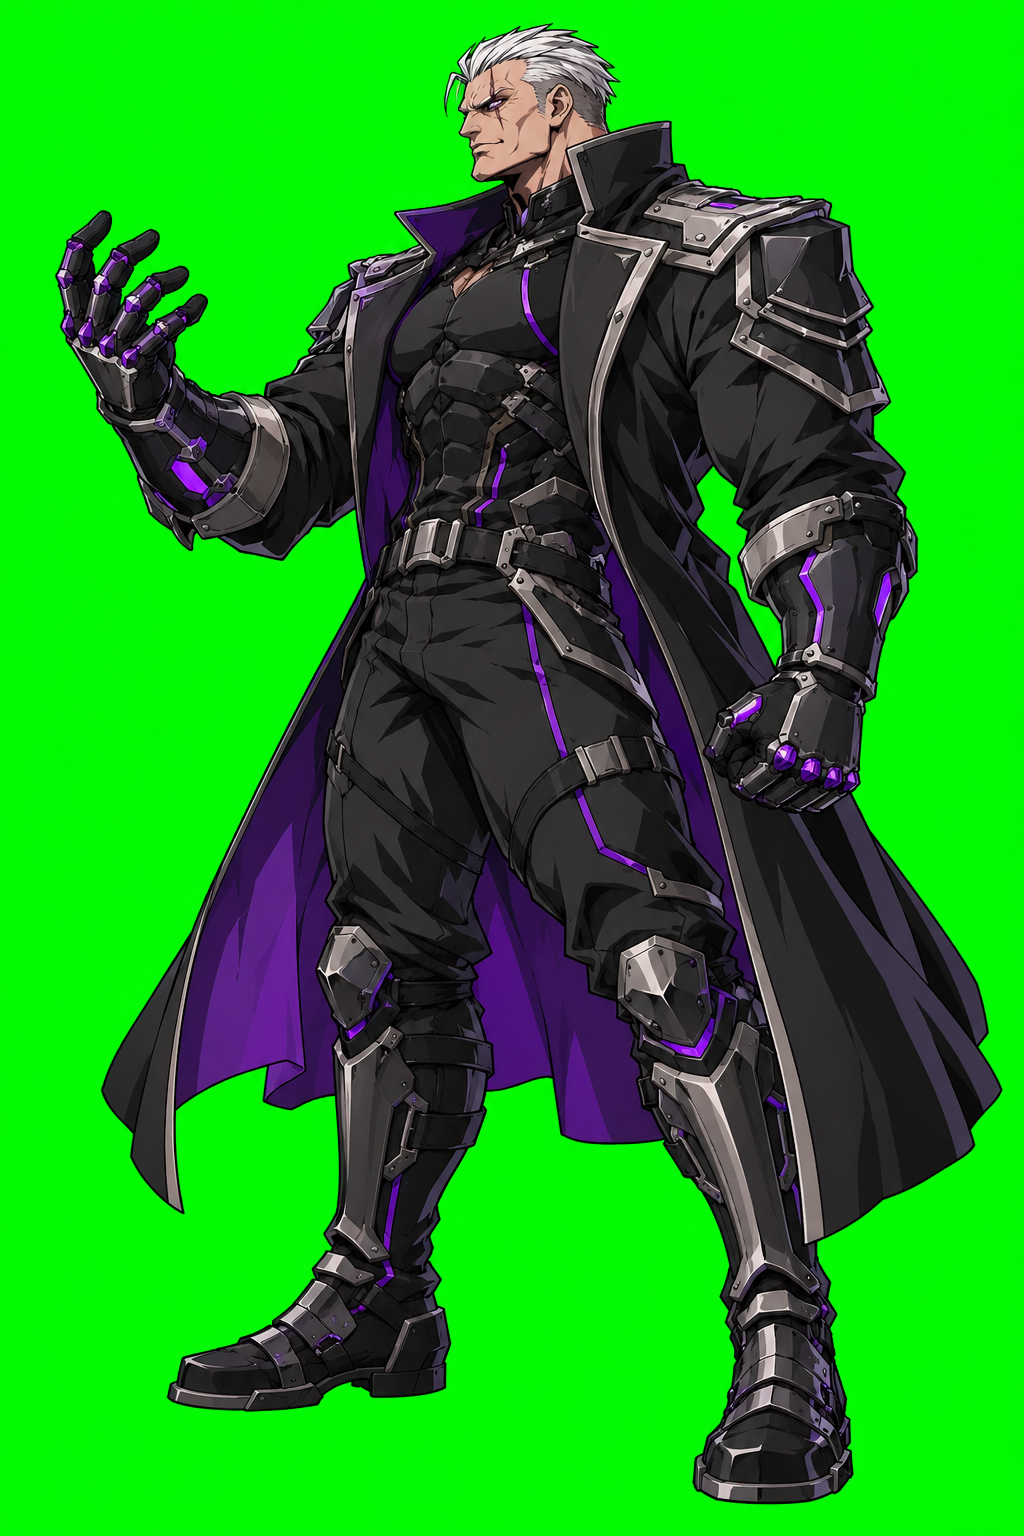
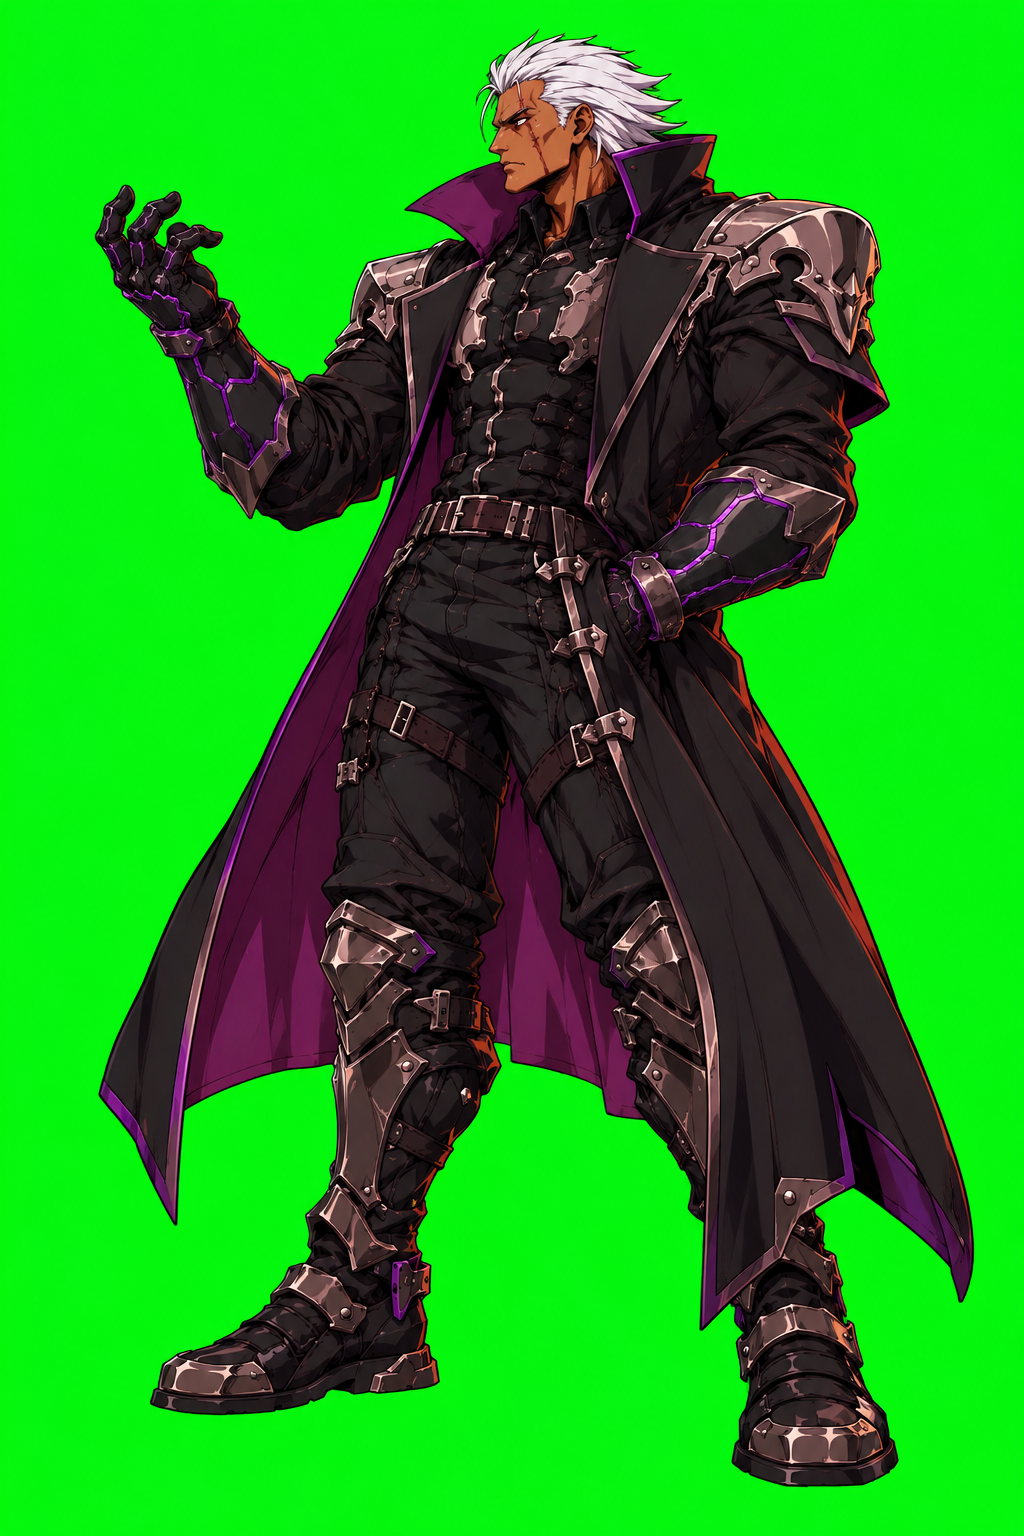
Lab : nouvelle garde de l'adversaire, aux proportions de Moussa
Nouvelle illustration de la garde (pose neutre, main ouverte levée), calée sur le sol et agrandie de 10 % : il dépasse Moussa d'une demi-tête. Ajoute l'illustration de la marche (art/rival-walk.png), pas encore utilisée. La parade et le coup reçu restent les anciens dessins en attendant d'être refaits.

Claude-Session: https://claude.ai/code/session_01M1b9DC9dTTYuQLuZX98nC4

diff --git a/lab/src/game/rival/RivalLayer.ts b/lab/src/game/rival/RivalLayer.ts
@@ -17,7 +17,7 @@ const IMAGE_SIZE: [number, number] = [1024, 2048]
  * que la tête garde la taille de celle de la garde (les illustrations ne sont pas à la même échelle).
  */
 const POSES = {
-  guard: { file: 'rival/guard.webp', ground: [510, 1500], scale: 1 },
+  guard: { file: 'rival/guard.webp', ground: [525, 1455], scale: 1.1 },
   blockStep: { file: 'rival/block-step.webp', ground: [519, 1414], scale: 1.1 },
   block: { file: 'rival/block.webp', ground: [543, 1492], scale: 0.95 },
   hurt: { file: 'rival/hurt.webp', ground: [490, 1478], scale: 0.9 },
@@ -45,8 +45,8 @@ const CALM_AMPLITUDE = 0.35
 /** L'adversaire : pour l'instant immobile, en garde ou en parade, il encaisse ou pare les coups. */
 export class RivalLayer implements Opponent {
   readonly x = 0.66
-  readonly surface = 220
-  readonly gap = 660
+  readonly surface = 310
+  readonly gap = 760
   private gl: WebGLRenderingContext | null
   private layer: { program: WebGLProgram; attribute: number; u: Record<(typeof LAYER_UNIFORMS)[number], WebGLUniformLocation | null> } | null = null
   private flat: { program: WebGLProgram; attribute: number; u: Record<(typeof FLAT_UNIFORMS)[number], WebGLUniformLocation | null> } | null = null
